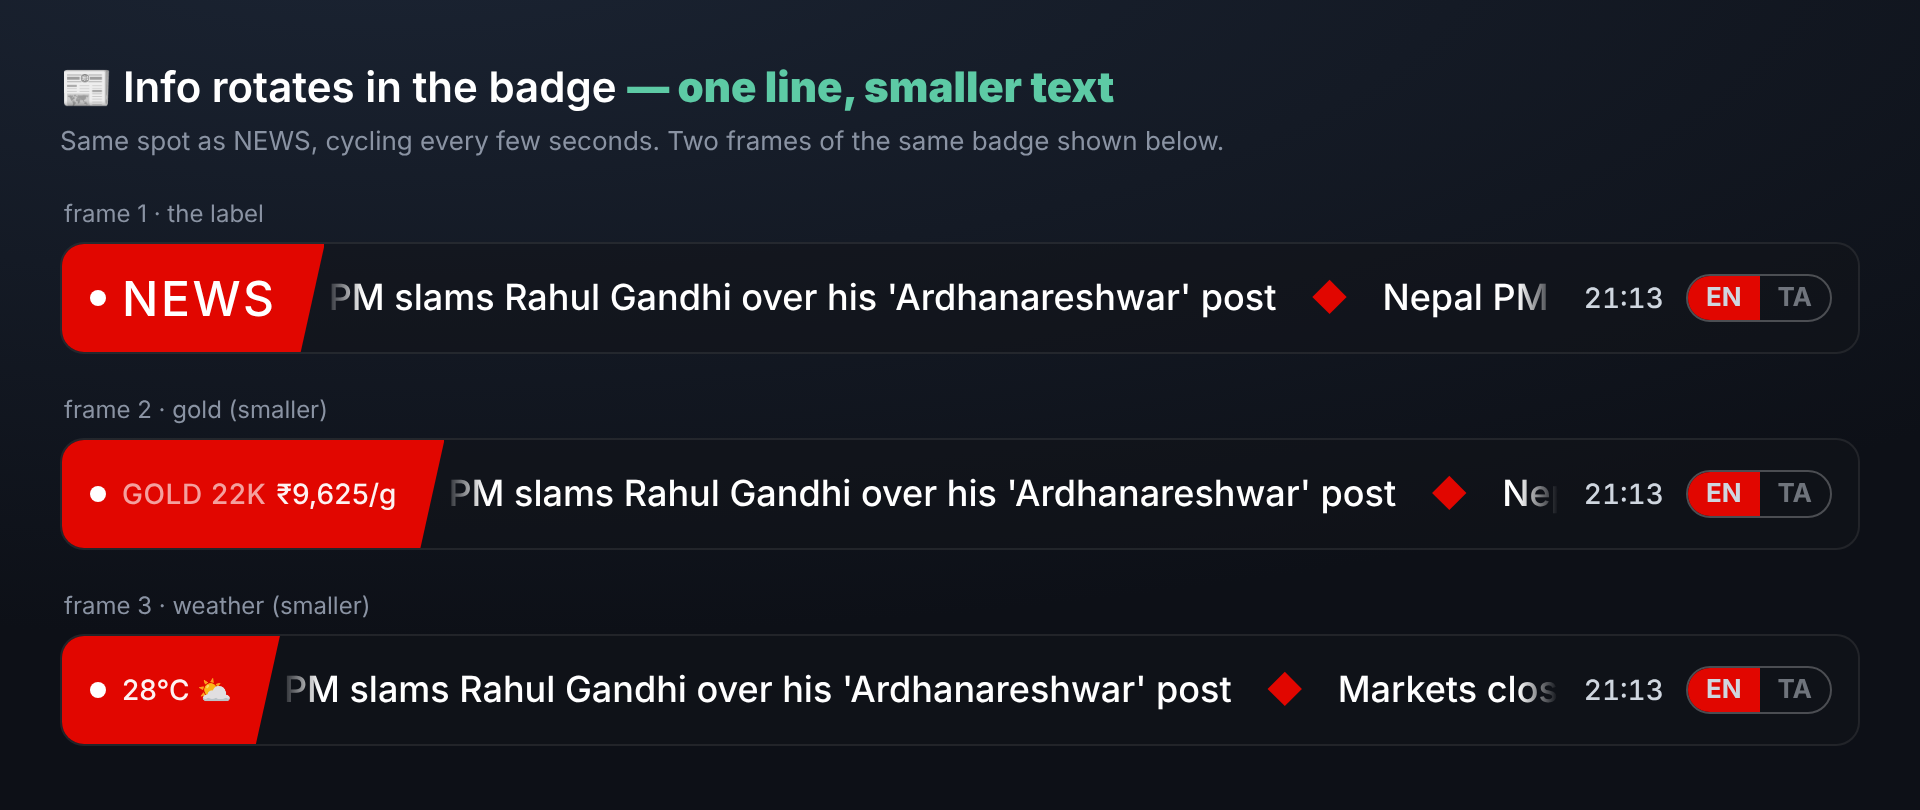
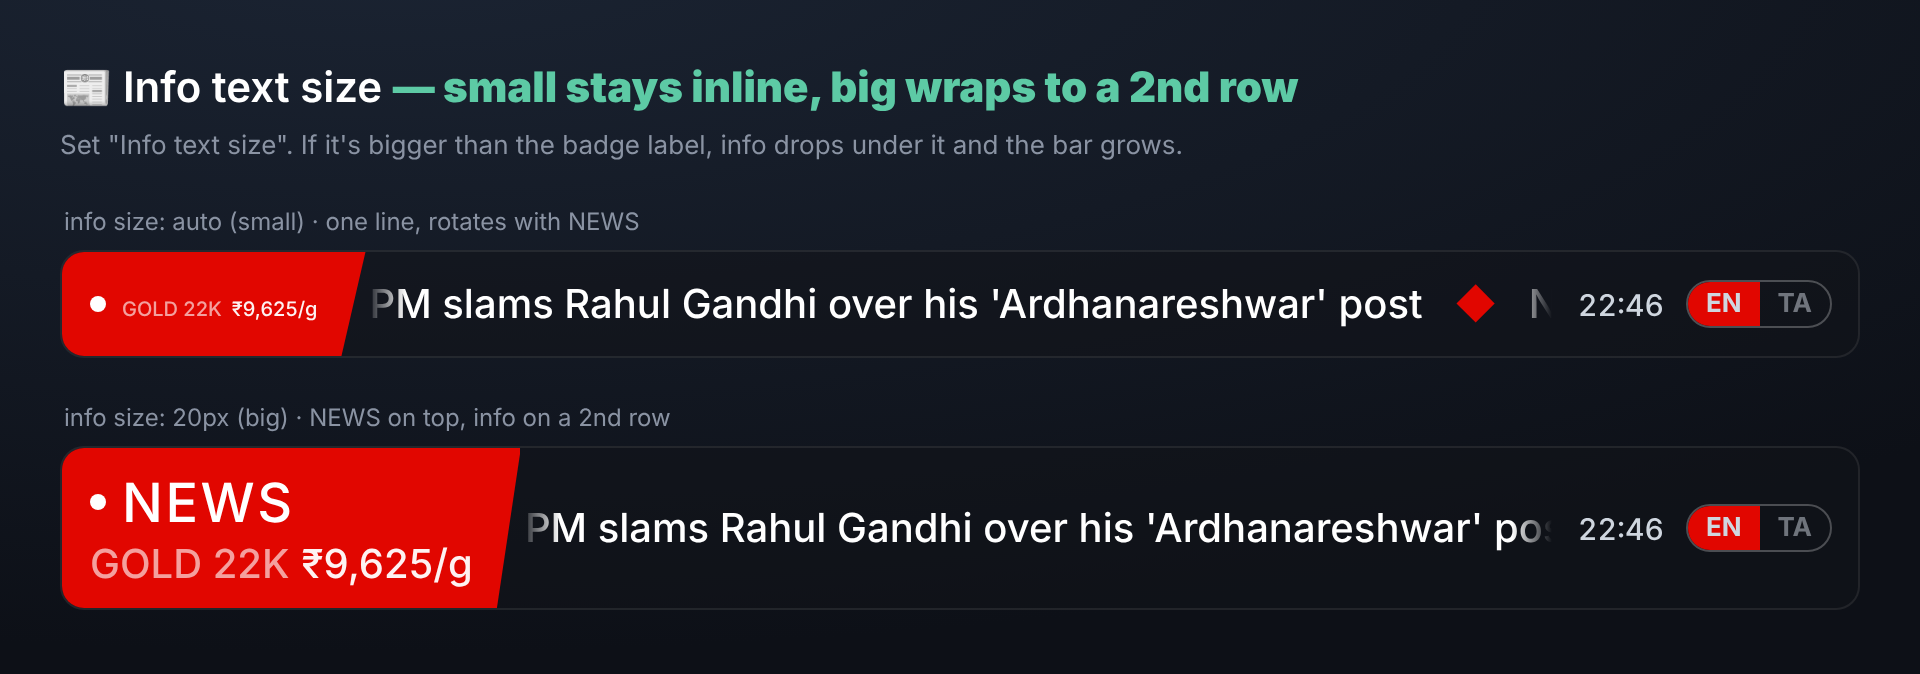
v2.6: info_font_size setting; big info wraps to a 2nd row
- new info_font_size (0 = auto small). When larger than the badge label, the
  layout switches to two rows: label on top, info rotating below, bar grows
- single-line rotate kept for small info (with the pinned width from v2.5)
- editor gains the size field; verified both modes in Chromium

Claude-Session: https://claude.ai/code/session_01EPn8JK15td6Hefeq9pGtig

Changed region(s): [[0.0312, 0.0623, 0.9688, 0.9347]]

diff --git a/news-ticker-card.js b/news-ticker-card.js
@@ -1,11 +1,12 @@
 /*! news-ticker-card.js — modern broadcast news ticker for Home Assistant
  *  Headlines from /local/news_*.json  (flat ["Headline", ...] arrays)
  *  Info (gold/silver/weather/date/location) from /local/info.json
- *  v2.4 — 4 styles, EN/TA toggle, live clock, info rotates in the badge
- *         (small text, alternating with the label) or as a standalone chip.
- *  v2.5 — badge width is pinned to its widest frame so it never resizes mid-cycle.
+ *  v2.4 — 4 styles, EN/TA toggle, live clock, info rotates in the badge.
+ *  v2.5 — badge width pinned to its widest frame so it never resizes mid-cycle.
+ *  v2.6 — info_font_size setting; when info text is bigger than the label it
+ *         moves to a 2nd row under the label (badge grows) instead of one line.
  */
-const NTC_VERSION = "2.5";
+const NTC_VERSION = "2.6";
 const NTC_STYLES = ["breaking", "glass", "live", "split"];
 const NTC_DEFAULT_LABEL = { breaking: "BREAKING", glass: "NEWS", live: "LIVE", split: "TOP NEWS" };
 const NTC_INFO_ALL = ["gold24", "gold22", "silver", "weather", "date", "location"];
@@ -38,7 +39,8 @@ class NewsTickerCard extends HTMLElement {
       show_info: false,
       info_items: ["gold24", "silver", "weather", "date"],
       info_rotate_seconds: 6,
-      info_position: "badge",   // "badge" = rotate with the label (small text) | "inline" = separate chip
+      info_position: "badge",   // "badge" = rotate with the label | "inline" = separate chip
+      info_font_size: 0,        // 0 = auto (small). Bigger than the label -> 2nd row.
       location: "",
     }, config);
     this._config.style = style;
@@ -78,6 +80,21 @@ class NewsTickerCard extends HTMLElement {
   }
 
   _inline() { return this._config.info_position === "inline"; }
+  _sizes() {
+    const fs = Number(this._config.font_size) || 18;
+    const labelSize = Math.max(12, fs - 3);
+    const iSize = Number(this._config.info_font_size) > 0
+      ? Number(this._config.info_font_size)
+      : Math.max(10, Math.round(fs - 24));
+    return { fs: fs, labelSize: labelSize, iSize: iSize };
+  }
+  // "inline" chip | "two" (label row + info row) | "badge1" (rotate on one line)
+  _mode() {
+    if (this._inline()) return "inline";
+    if (!this._config.show_info) return "badge1";
+    const s = this._sizes();
+    return s.iSize > s.labelSize ? "two" : "badge1";
+  }
 
   _scheduleRefresh() {
     clearInterval(this._refreshTimer);
@@ -129,7 +146,7 @@ class NewsTickerCard extends HTMLElement {
       const doc = await resp.json();
       this._info = doc && doc.items ? doc : { items: {}, location: "" };
     } catch (e) { /* keep last good */ }
-    if (this._inline()) this._renderInfoChip(); else { this._renderBadge(); this._fitBadge(); }
+    this._renderForMode();
   }
   _setStatus(msg) {
     const track = this.shadowRoot && this.shadowRoot.getElementById("track");
@@ -171,9 +188,19 @@ class NewsTickerCard extends HTMLElement {
            '<span class="ival">' + this._esc(this._infoValue(id)) + "</span>";
   }
 
-  // badge mode: a single slot that cycles [label, ...info items]
+  _renderForMode() {
+    if (this._mode() === "badge1") { this._renderBadge(); this._fitBadge(); }
+    else { this._renderLabel(); this._renderInfo(); }
+  }
+
+  _renderLabel() {
+    const slot = this.shadowRoot && this.shadowRoot.getElementById("label");
+    if (slot) slot.innerHTML = '<span class="blabel">' + this._esc(this._labelText()) + "</span>";
+  }
+
+  // badge1: single slot cycling [label, ...info items]
   _badgeSeq() {
-    const items = (this._config.show_info && !this._inline()) ? this._activeInfoItems() : [];
+    const items = (this._config.show_info && this._mode() === "badge1") ? this._activeInfoItems() : [];
     return ["__label__"].concat(items);
   }
   _renderBadge() {
@@ -185,10 +212,8 @@ class NewsTickerCard extends HTMLElement {
     if (it === "__label__") slot.innerHTML = '<span class="blabel">' + this._esc(this._labelText()) + "</span>";
     else slot.innerHTML = '<span class="binfo">' + this._infoHTML(it) + "</span>";
   }
-
-  // measure every badge frame, pin the slot to the widest so it never resizes mid-cycle
   _fitBadge() {
-    if (this._inline()) return;
+    if (this._mode() !== "badge1") return;
     const slot = this.shadowRoot && this.shadowRoot.getElementById("label");
     const m = this.shadowRoot && this.shadowRoot.getElementById("measure");
     if (!slot || !m) return;
@@ -203,13 +228,13 @@ class NewsTickerCard extends HTMLElement {
     slot.style.minWidth = max > 0 ? max + "px" : "";
   }
 
-  // inline mode: standalone chip element (#info)
-  _renderInfoChip() {
+  // two-row & inline: a separate #info element cycles the info items
+  _renderInfo() {
     const el = this.shadowRoot && this.shadowRoot.getElementById("info");
     if (!el) return;
     const items = this._activeInfoItems();
-    if (!items.length) { el.style.display = "none"; el.innerHTML = ""; return; }
-    el.style.display = "flex";
+    if (!items.length) { el.style.visibility = "hidden"; el.innerHTML = ""; return; }
+    el.style.visibility = "visible";
     if (this._infoIdx >= items.length) this._infoIdx = 0;
     el.innerHTML = this._infoHTML(items[this._infoIdx]);
   }
@@ -217,58 +242,69 @@ class NewsTickerCard extends HTMLElement {
   _startRotate() {
     clearInterval(this._rotTimer);
     const secs = Math.max(2, Number(this._config.info_rotate_seconds) || 6);
-    if (this._inline()) {
-      this._renderBadge();          // label static
-      this._renderInfoChip();
+    const mode = this._mode();
+    if (mode === "badge1") {
+      this._renderBadge(); this._fitBadge();
       if (!this._config.show_info) return;
       this._rotTimer = setInterval(() => {
-        const items = this._activeInfoItems();
-        if (items.length <= 1) { this._renderInfoChip(); return; }
-        const el = this.shadowRoot && this.shadowRoot.getElementById("info");
-        this._infoIdx = (this._infoIdx + 1) % items.length;
-        if (el) { el.style.opacity = "0"; setTimeout(() => { this._renderInfoChip(); el.style.opacity = "1"; }, 180); }
-        else this._renderInfoChip();
+        const seq = this._badgeSeq();
+        if (seq.length <= 1) { this._renderBadge(); return; }
+        const slot = this.shadowRoot && this.shadowRoot.getElementById("label");
+        this._badgeIdx = (this._badgeIdx + 1) % seq.length;
+        if (slot) { slot.style.opacity = "0"; setTimeout(() => { this._renderBadge(); slot.style.opacity = "1"; }, 180); }
+        else this._renderBadge();
       }, secs * 1000);
       return;
     }
-    // badge mode
-    this._renderBadge();
+    // two-row or inline: label static, info element rotates
+    this._renderLabel();
+    this._renderInfo();
     if (!this._config.show_info) return;
     this._rotTimer = setInterval(() => {
-      const seq = this._badgeSeq();
-      if (seq.length <= 1) { this._renderBadge(); return; }
-      const slot = this.shadowRoot && this.shadowRoot.getElementById("label");
-      this._badgeIdx = (this._badgeIdx + 1) % seq.length;
-      if (slot) { slot.style.opacity = "0"; setTimeout(() => { this._renderBadge(); slot.style.opacity = "1"; }, 180); }
-      else this._renderBadge();
+      const items = this._activeInfoItems();
+      if (items.length <= 1) { this._renderInfo(); return; }
+      const el = this.shadowRoot && this.shadowRoot.getElementById("info");
+      this._infoIdx = (this._infoIdx + 1) % items.length;
+      if (el) { el.style.opacity = "0"; setTimeout(() => { this._renderInfo(); el.style.opacity = "1"; }, 180); }
+      else this._renderInfo();
     }, secs * 1000);
   }
 
   _build() {
     const c = this._config, root = this.shadowRoot;
     const accent = this._accent();
-    const fs = Number(c.font_size) || 18;
-    const ifs = Math.max(10, Math.round(fs - 24));     // small info text in badge
-    const inline = this._inline();
+    const s = this._sizes();
+    const fs = s.fs, labelSize = s.labelSize, iSize = s.iSize;
+    const mode = this._mode();
+    const inline = mode === "inline";
+    const two = mode === "two";
+    const barH = two ? Math.max(fs + 24, labelSize + iSize + 22) : (fs + 24);
     root.innerHTML = `
       <style>
         :host { display: block; }
         .bar { --accent: ${accent}; display: flex; align-items: stretch; position: relative;
-          height: calc(${fs}px + 24px); border-radius: 12px; overflow: hidden; color: #fff;
+          height: ${barH}px; border-radius: 12px; overflow: hidden; color: #fff;
           font-family: var(--ntc-font, system-ui, sans-serif); }
         .rail { display: none; width: 4px; background: var(--accent); }
         .badge { display: ${c.show_label ? "flex" : "none"}; align-items: center; gap: 8px; white-space: nowrap; font-weight: 500; }
+        .badge.two { flex-direction: column; align-items: flex-start; justify-content: center; gap: 2px; }
+        .brow { display: flex; align-items: center; gap: 8px; }
         .badge .dot { width: 8px; height: 8px; border-radius: 50%; background: #fff; flex: 0 0 auto; }
         #label { display: inline-flex; align-items: center; justify-content: flex-start; transition: opacity .18s ease; }
+        .blabel { font-size: ${labelSize}px; }
         .measure { position: absolute; left: -9999px; top: -9999px; visibility: hidden; white-space: nowrap; }
-        .blabel { font-size: ${Math.max(12, fs - 3)}px; }
         .binfo { display: inline-flex; align-items: baseline; }
-        .binfo .ilabel { font-size: ${ifs}px; font-weight: 500; opacity: .62; letter-spacing: .3px; margin-right: 5px; }
-        .binfo .ival { font-size: ${ifs}px; font-weight: 500; opacity: .95; }
-        .info { display: none; align-items: center; gap: 7px; padding: 0 14px; white-space: nowrap;
+        .binfo .ilabel { font-size: ${iSize}px; font-weight: 500; opacity: .62; letter-spacing: .3px; margin-right: 5px; }
+        .binfo .ival { font-size: ${iSize}px; font-weight: 500; opacity: .95; }
+        /* two-row info line under the label */
+        .inforow { white-space: nowrap; transition: opacity .18s ease; }
+        .inforow .ilabel { font-size: ${iSize}px; font-weight: 500; opacity: .6; letter-spacing: .3px; margin-right: 5px; }
+        .inforow .ival { font-size: ${iSize}px; font-weight: 500; opacity: .95; }
+        /* inline chip */
+        .chip { display: flex; align-items: center; gap: 7px; padding: 0 14px; white-space: nowrap;
           background: rgba(0,0,0,.22); transition: opacity .18s ease; }
-        .info .ilabel { font-size: ${Math.max(10, fs - 7)}px; font-weight: 500; opacity: .7; letter-spacing: .4px; }
-        .info .ival { font-size: ${Math.max(12, fs - 3)}px; font-weight: 500; color: var(--accent); }
+        .chip .ilabel { font-size: ${Math.max(10, iSize)}px; font-weight: 500; opacity: .7; letter-spacing: .4px; }
+        .chip .ival { font-size: ${Math.max(12, iSize + 2)}px; font-weight: 500; color: var(--accent); }
         .tk { flex: 1; overflow: hidden; position: relative; display: flex; align-items: center;
           -webkit-mask-image: linear-gradient(90deg,transparent,#000 20px,#000 calc(100% - 20px),transparent);
           mask-image: linear-gradient(90deg,transparent,#000 20px,#000 calc(100% - 20px),transparent); }
@@ -305,19 +341,23 @@ class NewsTickerCard extends HTMLElement {
         .bar[data-style="live"] .badge .dot { background: var(--accent); box-shadow: 0 0 8px var(--accent); }
         .bar[data-style="live"] .trk { text-transform: uppercase; letter-spacing: .5px; color: #dfe6ee; font-size: ${Math.max(12, fs - 3)}px; }
         .bar[data-style="live"] .side { color: #6b7a88; border-left: 1px solid #1c2430; }
-        .bar[data-style="live"] .info { background: #0b0f15; }
+        .bar[data-style="live"] .chip { background: #0b0f15; }
 
         .bar[data-style="split"] { background: rgba(20,16,28,.6); backdrop-filter: blur(10px) saturate(140%);
           -webkit-backdrop-filter: blur(10px) saturate(140%); border: 1px solid rgba(255,255,255,.08); }
-        .bar[data-style="split"] .badge { background: var(--accent); padding: 0 16px; letter-spacing: .7px;
+        .bar[data-style="split"] .badge { padding: 0 16px; letter-spacing: .7px; background: var(--accent);
           text-transform: ${c.uppercase ? "uppercase" : "none"}; }
         .bar[data-style="split"] .badge .dot { display: none; }
         .bar[data-style="split"] .side { color: #c9c4e8; }
       </style>
       <div class="bar" data-style="${c.style}">
         <div class="rail"></div>
-        <div class="badge"><span class="dot"></span><span id="label"></span><span class="measure" id="measure"></span></div>
-        ${inline ? '<div class="info" id="info"></div>' : ""}
+        <div class="badge${two ? " two" : ""}">
+          ${two
+            ? '<span class="brow"><span class="dot"></span><span id="label"></span></span><span class="inforow" id="info"></span>'
+            : '<span class="dot"></span><span id="label"></span><span class="measure" id="measure"></span>'}
+        </div>
+        ${inline ? '<div class="chip" id="info"></div>' : ""}
         <div class="tk"><div class="trk" id="track"></div></div>
         <div class="side">
           <div id="clock"></div>
@@ -325,7 +365,7 @@ class NewsTickerCard extends HTMLElement {
         </div>
       </div>`;
     this._built = true;
-    this._renderBadge();
+    this._renderForMode();
     this._syncToggle();
     const tog = root.getElementById("toggle");
     if (tog) tog.addEventListener("click", (e) => {
@@ -333,12 +373,11 @@ class NewsTickerCard extends HTMLElement {
       if (!l || l === this._lang) return;
       this._lang = l;
       try { localStorage.setItem("ntc_lang", l); } catch (err) {}
-      this._renderBadge(); this._fitBadge(); this._syncToggle(); this._loadNews();
+      this._renderForMode(); this._syncToggle(); this._loadNews();
     });
     this._updateTime();
     if (this._headlines) this._renderTicker();
-    if (this._info && this._inline()) this._renderInfoChip();
-    requestAnimationFrame(() => this._fitBadge());
+    requestAnimationFrame(() => { if (this._mode() === "badge1") this._fitBadge(); });
   }
 
   _syncToggle() {
@@ -382,13 +421,10 @@ class NewsTickerCardEditor extends HTMLElement {
     const row = (label, key, type, val) =>
       '<label class="r"><span>' + label + '</span><input data-key="' + key + '" type="' + type + '" value="' + esc(val) + '" ' +
       (type === "checkbox" && val ? "checked" : "") + "></label>";
-    const opt = (key, val, choices) =>
-      '<label class="r"><span>' + key.label + '</span><select data-key="' + key.k + '">' +
+    const opt = (label, key, val, choices) =>
+      '<label class="r"><span>' + label + '</span><select data-key="' + key + '">' +
       choices.map((o) => '<option value="' + o + '"' + (val === o ? " selected" : "") + ">" + o + "</option>").join("") + "</select></label>";
-    const styleSel =
-      '<label class="r"><span>Style</span><select data-key="style">' +
-      NTC_STYLES.map((s) => '<option value="' + s + '"' + (c.style === s ? " selected" : "") + ">" +
-        s.charAt(0).toUpperCase() + s.slice(1) + "</option>").join("") + "</select></label>";
+    const styleSel = opt("Style", "style", c.style || "glass", NTC_STYLES);
     const sel = Array.isArray(c.info_items) ? c.info_items : [];
     const infoChecks = NTC_INFO_ALL.map((id) => '<label class="r"><span>' + (NTC_INFO_LABEL[id] || id) +
       ' <small>(' + id + ')</small></span><input data-info="' + id + '" type="checkbox" ' +
@@ -398,6 +434,7 @@ class NewsTickerCardEditor extends HTMLElement {
         .r{display:flex;justify-content:space-between;align-items:center;gap:12px;padding:5px 0;}
         .r span{font-size:14px;} .r small{opacity:.6;}
         .sec{margin:10px 0 2px;font-size:13px;font-weight:500;opacity:.8;border-top:1px solid var(--divider-color,#333);padding-top:8px;}
+        .hint{font-size:12px;opacity:.6;margin:2px 0 0;}
         select,input[type=text],input[type=number]{width:58%;padding:6px;border-radius:6px;
           border:1px solid var(--divider-color,#ccc);background:var(--card-background-color,#fff);color:var(--primary-text-color,#000);}
       </style>
@@ -422,7 +459,9 @@ class NewsTickerCardEditor extends HTMLElement {
         ${row("Uppercase badge", "uppercase", "checkbox", c.uppercase !== false)}
         <div class="sec">Info</div>
         ${row("Show info", "show_info", "checkbox", !!c.show_info)}
-        ${opt({ k: "info_position", label: "Info position" }, c.info_position || "badge", ["badge", "inline"])}
+        ${opt("Info position", "info_position", c.info_position || "badge", ["badge", "inline"])}
+        ${row("Info text size (px, 0 = auto)", "info_font_size", "number", c.info_font_size != null ? c.info_font_size : 0)}
+        <p class="hint">Bigger than the badge label → info drops to a 2nd row.</p>
         ${row("Rotate every (seconds)", "info_rotate_seconds", "number", c.info_rotate_seconds != null ? c.info_rotate_seconds : 6)}
         ${infoChecks}
         <div class="sec">Sources</div>

diff --git a/README.md b/README.md
@@ -1,6 +1,6 @@
 # 📰 News Ticker Card
 
-![version](https://img.shields.io/badge/version-2.5-blue) ![HACS](https://img.shields.io/badge/HACS-Custom-orange) ![Home Assistant](https://img.shields.io/badge/Home%20Assistant-2024.1+-green) ![license](https://img.shields.io/badge/license-MIT-lightgrey)
+![version](https://img.shields.io/badge/version-2.6-blue) ![HACS](https://img.shields.io/badge/HACS-Custom-orange) ![Home Assistant](https://img.shields.io/badge/Home%20Assistant-2024.1+-green) ![license](https://img.shields.io/badge/license-MIT-lightgrey)
 
 A modern, broadcast-style scrolling **news ticker** card for Home Assistant dashboards. Reads headlines from a simple local JSON file, scrolls them smoothly like a TV news channel, and ships with **4 selectable styles**, a **live clock**, and a **two-language toggle** (e.g. English / Tamil) — all configurable from a built-in visual editor.
 
@@ -140,6 +140,7 @@ info_items:
 | `show_info`        | boolean | `false`              | Show the rotating info chip beside the badge |
 | `info_items`       | list    | `[gold24, silver, weather, date]` | Which info items to rotate. Any of: `gold24`, `gold22`, `silver`, `weather`, `date`, `location` |
 | `info_rotate_seconds` | number | `6`               | Seconds each info item is shown before rotating |
+| `info_font_size`   | number  | `0`                  | Info text size in px. `0` = auto (small). If bigger than the badge label, info moves to a 2nd row under it |
 | `info_position`    | string  | `badge`              | `badge` = rotates in the badge with the label (small text); `inline` = separate chip |
 | `info_url`         | string  | `/local/info.json`   | Path to the info JSON written by the generator |
 | `location`         | string  | `""`                 | Place label for the `location` chip; blank falls back to `info.json`'s location |
